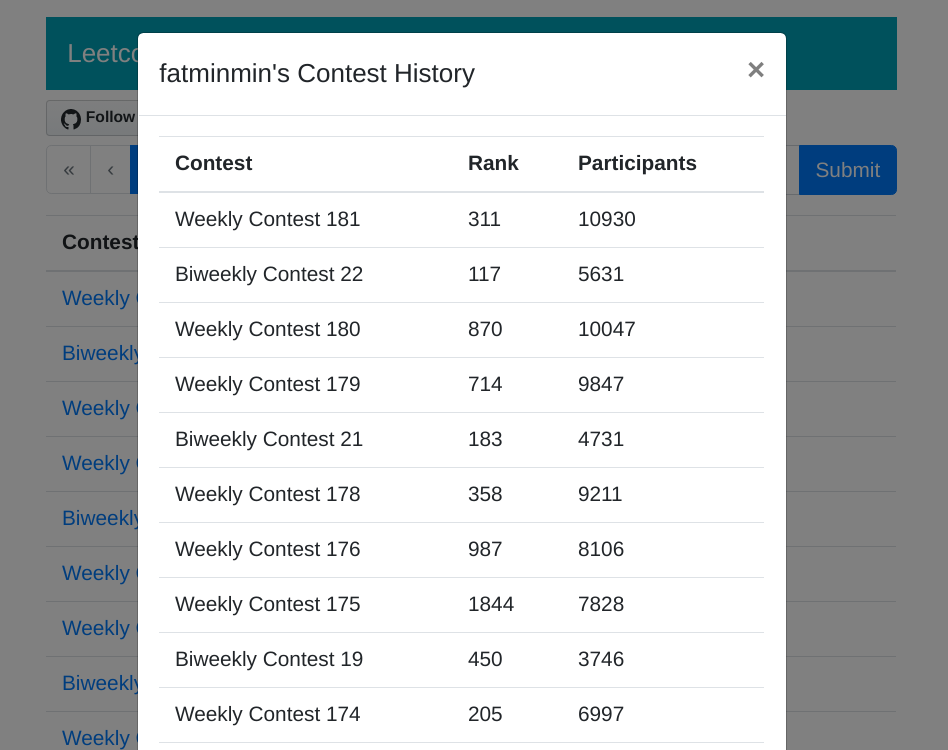
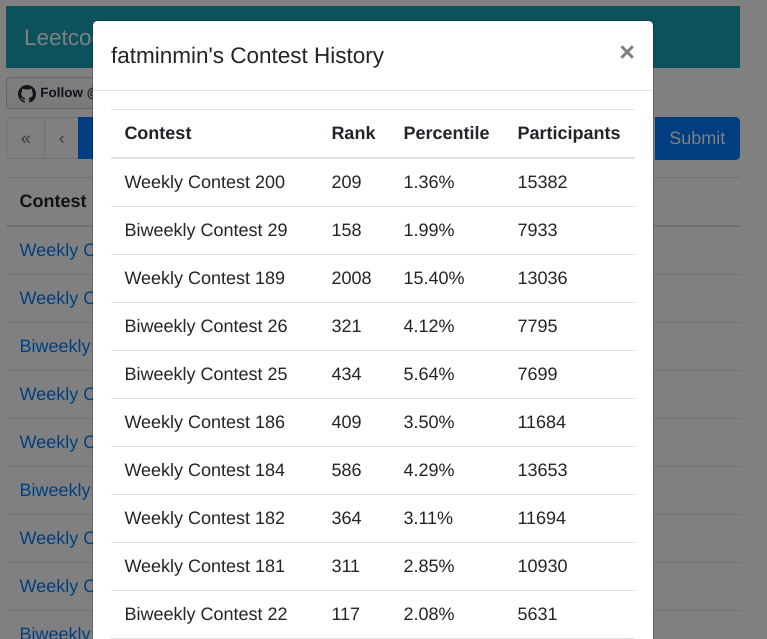
update UI images

diff --git a/README.md b/README.md
@@ -25,6 +25,14 @@ The website is purely static which can be served on any web server directly!!
 
 The UI is made with [Vue.js](https://vuejs.org/) and [BootstrapVue](https://bootstrap-vue.js.org/).
 
-![sample](images/sample.png)
+User contest history search:
 
 ![user_contest_history](images/user_contest_history.png)
+
+Contest user search:
+
+![user_search](images/user_search.png)
+
+Contest country filter:
+
+![country_filter](images/country_filter.png)
